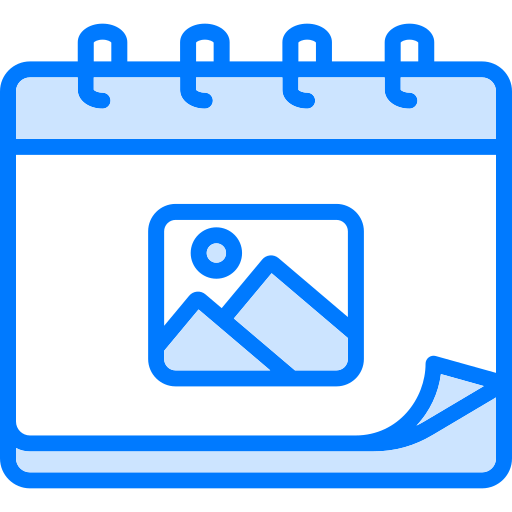
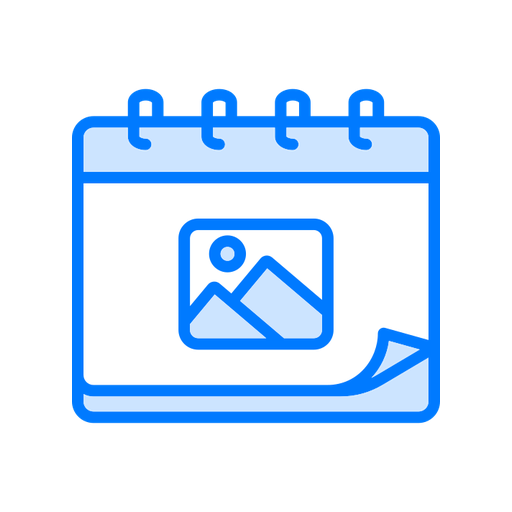
Add files via upload

diff --git a/style.css b/style.css
@@ -17,7 +17,6 @@
 body {
   background-color: var(--bg-color);
   color: var(--text-color);
-  /* Proteksi Notch / Dynamic Island iPhone */
   padding: calc(40px + env(safe-area-inset-top)) 15px calc(60px + env(safe-area-inset-bottom)) 15px;
   display: flex;
   flex-direction: column;
@@ -138,7 +137,6 @@ label {
   color: var(--text-muted);
 }
 
-/* Proteksi Minimal 16px Cegah Safari iOS Auto-Zoom */
 input[type="text"], input[type="file"], input[type="date"], select, input[type="color"] {
   -webkit-appearance: none;
   -moz-appearance: none;
@@ -306,4 +304,76 @@ canvas {
 .tpm-title {
   font-weight: 600;
   font-size: 1rem;
+}
+
+/* Footer & Smart Install Button */
+.app-footer {
+  margin-top: 10px;
+  display: flex;
+  justify-content: center;
+  width: 100%;
+}
+
+.btn-install {
+  background: linear-gradient(135deg, #007aff, #0056b3);
+  color: #fff;
+  border: none;
+  padding: 12px 24px;
+  border-radius: 25px;
+  font-weight: 700;
+  font-size: 0.95rem;
+  cursor: pointer;
+  display: flex;
+  align-items: center;
+  gap: 8px;
+  box-shadow: 0 4px 14px rgba(0, 122, 255, 0.4);
+  transition: transform 0.2s, background 0.2s;
+}
+
+.btn-install:active {
+  transform: scale(0.96);
+}
+
+/* Modal Petunjuk iOS */
+.modal-overlay {
+  position: fixed;
+  top: 0;
+  left: 0;
+  width: 100vw;
+  height: 100vh;
+  background: rgba(0, 0, 0, 0.75);
+  display: flex;
+  align-items: center;
+  justify-content: center;
+  z-index: 9999;
+  padding: 20px;
+}
+
+.modal-content {
+  background: #1e1e1e;
+  border: 1px solid #333;
+  border-radius: 16px;
+  padding: 24px;
+  max-width: 400px;
+  width: 100%;
+  color: #fff;
+  box-shadow: 0 8px 24px rgba(0,0,0,0.5);
+}
+
+.modal-content h3 {
+  color: var(--accent-color);
+  font-size: 1.1rem;
+  margin-bottom: 12px;
+}
+
+.modal-content ol {
+  padding-left: 20px;
+  font-size: 0.9rem;
+  line-height: 1.6;
+  color: #ddd;
+  margin-bottom: 18px;
+}
+
+.modal-content ol li {
+  margin-bottom: 8px;
 }

diff --git a/dashboard.js b/dashboard.js
@@ -34,3 +34,61 @@ function renderTasks(tasks) {
 
 tpmDate.addEventListener('change', (e) => loadSchedule(e.target.value));
 loadSchedule(today);
+
+// Register Service Worker
+if ('serviceWorker' in navigator) {
+  window.addEventListener('load', () => {
+    navigator.serviceWorker.register('./sw.js').catch(err => console.log('SW Registration error:', err));
+  });
+}
+
+// Logika Smart Install PWA
+let deferredPrompt;
+const installAppBtn = document.getElementById('installAppBtn');
+const iosInstallModal = document.getElementById('iosInstallModal');
+const closeIosModalBtn = document.getElementById('closeIosModalBtn');
+
+const isIOS = /iPad|iPhone|iPod/.test(navigator.userAgent) && !window.MSStream;
+const isStandalone = window.matchMedia('(display-mode: standalone)').matches || navigator.standalone;
+
+if (!isStandalone) {
+  if (isIOS) {
+    if (installAppBtn) installAppBtn.style.display = 'flex';
+  }
+}
+
+window.addEventListener('beforeinstallprompt', (e) => {
+  e.preventDefault();
+  deferredPrompt = e;
+  if (installAppBtn && !isStandalone) {
+    installAppBtn.style.display = 'flex';
+  }
+});
+
+if (installAppBtn) {
+  installAppBtn.addEventListener('click', async () => {
+    if (deferredPrompt) {
+      deferredPrompt.prompt();
+      const { outcome } = await deferredPrompt.userChoice;
+      if (outcome === 'accepted') {
+        installAppBtn.style.display = 'none';
+      }
+      deferredPrompt = null;
+    } else if (isIOS) {
+      if (iosInstallModal) iosInstallModal.style.display = 'flex';
+    } else {
+      alert('Aplikasi sudah terpasang atau browser Anda tidak mendukung instalasi otomatis.');
+    }
+  });
+}
+
+if (closeIosModalBtn && iosInstallModal) {
+  closeIosModalBtn.addEventListener('click', () => {
+    iosInstallModal.style.display = 'none';
+  });
+}
+
+window.addEventListener('appinstalled', () => {
+  if (installAppBtn) installAppBtn.style.display = 'none';
+  deferredPrompt = null;
+});

diff --git a/kolase.js b/kolase.js
@@ -61,14 +61,11 @@ function generateCaptionText() {
   const shiftVal = tpmShiftInput.value;
   const areaName = tpmAreaInput.value.trim() || "-";
 
-  // Format bold 2 baris pertama WhatsApp (*teks*) + "SHIFT"
-  let caption = `*TPM ${areaName}*
-*SHIFT ${shiftVal} ~ ${dateFormatted}*`;
+  let caption = `*TPM ${areaName}*\n*SHIFT ${shiftVal} ~ ${dateFormatted}*`;
 
   const rows = getSelectedRows();
   const overlayInputs = [row1Input, row2Input, row3Input];
 
-  // Bullet list resmi WhatsApp (- spasi)
   const bullets = [];
   for (let i = 0; i < rows; i++) {
     const text = overlayInputs[i] ? overlayInputs[i].value.trim() : "";
@@ -255,11 +252,9 @@ function generateCollage() {
     canvas.width = canvasWidth;
     canvas.height = canvasHeight;
 
-    // Background
     ctx.fillStyle = bgColorInput.value;
     ctx.fillRect(0, 0, canvasWidth, canvasHeight);
 
-    // Header Utama
     ctx.fillStyle = textColorInput.value;
     ctx.font = 'bold 80px -apple-system, BlinkMacSystemFont, "Segoe UI", Roboto, sans-serif';
     ctx.textAlign = 'center';
@@ -272,7 +267,6 @@ function generateCollage() {
     ctx.fillText(leftHeaderInput.value, leftColCenterX, headerCenterY);
     ctx.fillText(rightHeaderInput.value, rightColCenterX, headerCenterY);
 
-    // Render Foto
     const startY = padding + headerHeight;
 
     for (let r = 0; r < rows; r++) {
@@ -289,7 +283,6 @@ function generateCollage() {
       }
     }
 
-    // Render Teks Overlay
     const rawRowTexts = [
       row1Input ? row1Input.value : '',
       row2Input ? row2Input.value : '',
@@ -399,3 +392,9 @@ downloadBtn.addEventListener('click', () => {
 
 updateAutoAreaName();
 updateGridUI();
+
+if ('serviceWorker' in navigator) {
+  window.addEventListener('load', () => {
+    navigator.serviceWorker.register('./sw.js').catch(err => console.log('SW Registration error:', err));
+  });
+}

diff --git a/index.html b/index.html
@@ -12,7 +12,7 @@
   <meta name="mobile-web-app-capable" content="yes">
   <meta name="theme-color" content="#121212">
 
-  <link rel="manifest" href='data:application/manifest+json,{"name":"Dashboard TPM Urea 1B","short_name":"TPM 1B","start_url":".","display":"standalone","background_color":"#121212","theme_color":"#121212"}'>
+  <link rel="manifest" href="manifest.json">
   
   <!-- Favicon -->
   <link rel="icon" type="image/png" href="icon.png">
@@ -59,6 +59,26 @@
     </div>
 
     <div class="tpm-list" id="tpmList"></div>
+  </div>
+
+  <!-- Footer dengan Tombol Smart Install -->
+  <footer class="app-footer">
+    <button id="installAppBtn" class="btn-install" style="display: none;">
+      📲 Install Aplikasi PWA
+    </button>
+  </footer>
+</div>
+
+<!-- Modal Petunjuk iOS Safari -->
+<div id="iosInstallModal" class="modal-overlay" style="display: none;">
+  <div class="modal-content">
+    <h3>Cara Install di iPhone / iPad</h3>
+    <ol>
+      <li>Tap tombol <strong>Share 📤</strong> di bagian bawah Safari.</li>
+      <li>Scroll ke bawah lalu pilih <strong>"Tambah ke Layar Utama" ➕</strong>.</li>
+      <li>Tap <strong>"Tambah"</strong> di pojok kanan atas.</li>
+    </ol>
+    <button id="closeIosModalBtn" class="btn-secondary" style="width: 100%;">Mengerti</button>
   </div>
 </div>
 

diff --git a/sw.js b/sw.js
@@ -1,0 +1,40 @@
+const CACHE_NAME = 'tpm-v2';
+const urlsToCache = [
+  './',
+  './index.html',
+  './kolase.html',
+  './style.css',
+  './tpm-data.js',
+  './dashboard.js',
+  './kolase.js',
+  './manifest.json',
+  './icon.png'
+];
+
+self.addEventListener('install', (event) => {
+  event.waitUntil(
+    caches.open(CACHE_NAME).then((cache) => cache.addAll(urlsToCache))
+  );
+  self.skipWaiting();
+});
+
+self.addEventListener('activate', (event) => {
+  event.waitUntil(
+    caches.keys().then((cacheNames) => {
+      return Promise.all(
+        cacheNames.map((cache) => {
+          if (cache !== CACHE_NAME) {
+            return caches.delete(cache);
+          }
+        })
+      );
+    })
+  );
+  self.clients.claim();
+});
+
+self.addEventListener('fetch', (event) => {
+  event.respondWith(
+    caches.match(event.request).then((response) => response || fetch(event.request))
+  );
+});

diff --git a/kolase.html b/kolase.html
@@ -12,7 +12,7 @@
   <meta name="mobile-web-app-capable" content="yes">
   <meta name="theme-color" content="#121212">
 
-  <link rel="manifest" href='data:application/manifest+json,{"name":"Kolase Foto TPM","short_name":"Kolase TPM","start_url":".","display":"standalone","background_color":"#121212","theme_color":"#121212"}'>
+  <link rel="manifest" href="manifest.json">
 
   <!-- Favicon -->
   <link rel="icon" type="image/png" href="icon.png">
